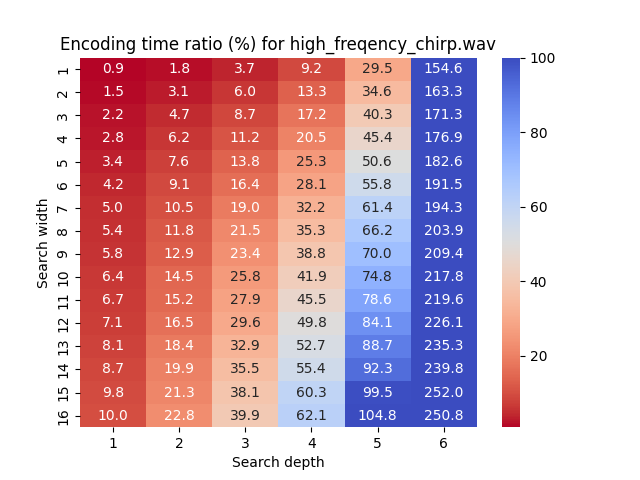
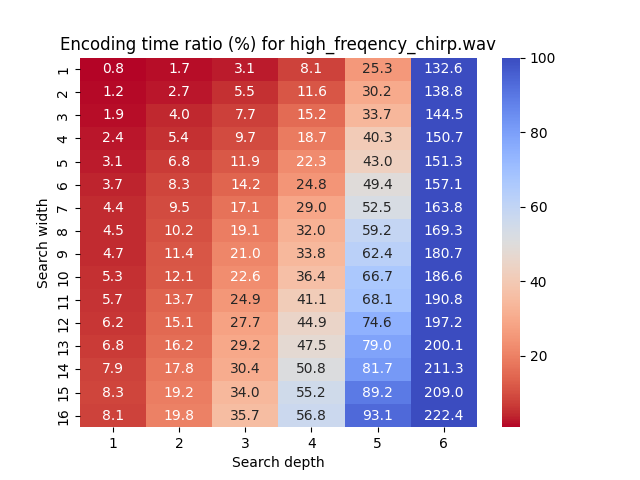
some optimizations.

diff --git a/libs/moicodec/include/moi_internal.h b/libs/moicodec/include/moi_internal.h
@@ -63,6 +63,100 @@ static const int16_t IMAADPCM_stepsize_table[89] = {
     32767
 };
 
+/* 量子化誤差計算済みテーブル */
+static const int32_t MOI_qdiff_table[89][16] = {
+    {0,2,4,6,7,9,11,13,0,-2,-4,-6,-7,-9,-11,-13},
+    {1,3,5,7,9,11,13,15,-1,-3,-5,-7,-9,-11,-13,-15},
+    {1,3,5,7,10,12,14,16,-1,-3,-5,-7,-10,-12,-14,-16},
+    {1,3,6,8,11,13,16,18,-1,-3,-6,-8,-11,-13,-16,-18},
+    {1,4,6,9,12,15,17,20,-1,-4,-6,-9,-12,-15,-17,-20},
+    {1,4,7,10,13,16,19,22,-1,-4,-7,-10,-13,-16,-19,-22},
+    {1,4,8,11,14,17,21,24,-1,-4,-8,-11,-14,-17,-21,-24},
+    {1,5,8,12,15,19,22,26,-1,-5,-8,-12,-15,-19,-22,-26},
+    {2,6,10,14,18,22,26,30,-2,-6,-10,-14,-18,-22,-26,-30},
+    {2,6,10,14,19,23,27,31,-2,-6,-10,-14,-19,-23,-27,-31},
+    {2,7,11,16,21,26,30,35,-2,-7,-11,-16,-21,-26,-30,-35},
+    {2,7,13,18,23,28,34,39,-2,-7,-13,-18,-23,-28,-34,-39},
+    {2,8,14,20,25,31,37,43,-2,-8,-14,-20,-25,-31,-37,-43},
+    {3,9,15,21,28,34,40,46,-3,-9,-15,-21,-28,-34,-40,-46},
+    {3,10,17,24,31,38,45,52,-3,-10,-17,-24,-31,-38,-45,-52},
+    {3,11,19,27,34,42,50,58,-3,-11,-19,-27,-34,-42,-50,-58},
+    {4,12,21,29,38,46,55,63,-4,-12,-21,-29,-38,-46,-55,-63},
+    {4,13,23,32,41,50,60,69,-4,-13,-23,-32,-41,-50,-60,-69},
+    {5,15,25,35,46,56,66,76,-5,-15,-25,-35,-46,-56,-66,-76},
+    {5,16,28,39,50,61,73,84,-5,-16,-28,-39,-50,-61,-73,-84},
+    {6,18,31,43,56,68,81,93,-6,-18,-31,-43,-56,-68,-81,-93},
+    {6,20,34,48,61,75,89,103,-6,-20,-34,-48,-61,-75,-89,-103},
+    {7,22,37,52,67,82,97,112,-7,-22,-37,-52,-67,-82,-97,-112},
+    {8,24,41,57,74,90,107,123,-8,-24,-41,-57,-74,-90,-107,-123},
+    {9,27,45,63,82,100,118,136,-9,-27,-45,-63,-82,-100,-118,-136},
+    {10,30,50,70,90,110,130,150,-10,-30,-50,-70,-90,-110,-130,-150},
+    {11,33,55,77,99,121,143,165,-11,-33,-55,-77,-99,-121,-143,-165},
+    {12,36,60,84,109,133,157,181,-12,-36,-60,-84,-109,-133,-157,-181},
+    {13,40,66,93,120,147,173,200,-13,-40,-66,-93,-120,-147,-173,-200},
+    {14,44,73,103,132,162,191,221,-14,-44,-73,-103,-132,-162,-191,-221},
+    {16,48,81,113,146,178,211,243,-16,-48,-81,-113,-146,-178,-211,-243},
+    {17,53,89,125,160,196,232,268,-17,-53,-89,-125,-160,-196,-232,-268},
+    {19,58,98,137,176,215,255,294,-19,-58,-98,-137,-176,-215,-255,-294},
+    {21,64,108,151,194,237,281,324,-21,-64,-108,-151,-194,-237,-281,-324},
+    {23,71,118,166,213,261,308,356,-23,-71,-118,-166,-213,-261,-308,-356},
+    {26,78,130,182,235,287,339,391,-26,-78,-130,-182,-235,-287,-339,-391},
+    {28,86,143,201,258,316,373,431,-28,-86,-143,-201,-258,-316,-373,-431},
+    {31,94,158,221,284,347,411,474,-31,-94,-158,-221,-284,-347,-411,-474},
+    {34,104,174,244,313,383,453,523,-34,-104,-174,-244,-313,-383,-453,-523},
+    {38,115,191,268,345,422,498,575,-38,-115,-191,-268,-345,-422,-498,-575},
+    {42,126,210,294,379,463,547,631,-42,-126,-210,-294,-379,-463,-547,-631},
+    {46,139,231,324,417,510,602,695,-46,-139,-231,-324,-417,-510,-602,-695},
+    {51,153,255,357,459,561,663,765,-51,-153,-255,-357,-459,-561,-663,-765},
+    {56,168,280,392,505,617,729,841,-56,-168,-280,-392,-505,-617,-729,-841},
+    {61,185,308,432,555,679,802,926,-61,-185,-308,-432,-555,-679,-802,-926},
+    {68,204,340,476,612,748,884,1020,-68,-204,-340,-476,-612,-748,-884,-1020},
+    {74,224,373,523,672,822,971,1121,-74,-224,-373,-523,-672,-822,-971,-1121},
+    {82,246,411,575,740,904,1069,1233,-82,-246,-411,-575,-740,-904,-1069,-1233},
+    {90,271,452,633,814,995,1176,1357,-90,-271,-452,-633,-814,-995,-1176,-1357},
+    {99,298,497,696,895,1094,1293,1492,-99,-298,-497,-696,-895,-1094,-1293,-1492},
+    {109,328,547,766,985,1204,1423,1642,-109,-328,-547,-766,-985,-1204,-1423,-1642},
+    {120,361,601,842,1083,1324,1564,1805,-120,-361,-601,-842,-1083,-1324,-1564,-1805},
+    {132,397,662,927,1192,1457,1722,1987,-132,-397,-662,-927,-1192,-1457,-1722,-1987},
+    {145,437,728,1020,1311,1603,1894,2186,-145,-437,-728,-1020,-1311,-1603,-1894,-2186},
+    {160,480,801,1121,1442,1762,2083,2403,-160,-480,-801,-1121,-1442,-1762,-2083,-2403},
+    {176,529,881,1234,1587,1940,2292,2645,-176,-529,-881,-1234,-1587,-1940,-2292,-2645},
+    {194,582,970,1358,1746,2134,2522,2910,-194,-582,-970,-1358,-1746,-2134,-2522,-2910},
+    {213,640,1066,1493,1920,2347,2773,3200,-213,-640,-1066,-1493,-1920,-2347,-2773,-3200},
+    {234,704,1173,1643,2112,2582,3051,3521,-234,-704,-1173,-1643,-2112,-2582,-3051,-3521},
+    {258,774,1291,1807,2324,2840,3357,3873,-258,-774,-1291,-1807,-2324,-2840,-3357,-3873},
+    {284,852,1420,1988,2556,3124,3692,4260,-284,-852,-1420,-1988,-2556,-3124,-3692,-4260},
+    {312,937,1561,2186,2811,3436,4060,4685,-312,-937,-1561,-2186,-2811,-3436,-4060,-4685},
+    {343,1030,1718,2405,3092,3779,4467,5154,-343,-1030,-1718,-2405,-3092,-3779,-4467,-5154},
+    {378,1134,1890,2646,3402,4158,4914,5670,-378,-1134,-1890,-2646,-3402,-4158,-4914,-5670},
+    {415,1247,2079,2911,3742,4574,5406,6238,-415,-1247,-2079,-2911,-3742,-4574,-5406,-6238},
+    {457,1372,2287,3202,4117,5032,5947,6862,-457,-1372,-2287,-3202,-4117,-5032,-5947,-6862},
+    {503,1509,2516,3522,4529,5535,6542,7548,-503,-1509,-2516,-3522,-4529,-5535,-6542,-7548},
+    {553,1660,2767,3874,4981,6088,7195,8302,-553,-1660,-2767,-3874,-4981,-6088,-7195,-8302},
+    {608,1826,3044,4262,5479,6697,7915,9133,-608,-1826,-3044,-4262,-5479,-6697,-7915,-9133},
+    {669,2009,3348,4688,6027,7367,8706,10046,-669,-2009,-3348,-4688,-6027,-7367,-8706,-10046},
+    {736,2210,3683,5157,6630,8104,9577,11051,-736,-2210,-3683,-5157,-6630,-8104,-9577,-11051},
+    {810,2431,4052,5673,7294,8915,10536,12157,-810,-2431,-4052,-5673,-7294,-8915,-10536,-12157},
+    {891,2674,4457,6240,8023,9806,11589,13372,-891,-2674,-4457,-6240,-8023,-9806,-11589,-13372},
+    {980,2941,4903,6864,8825,10786,12748,14709,-980,-2941,-4903,-6864,-8825,-10786,-12748,-14709},
+    {1078,3236,5393,7551,9708,11866,14023,16181,-1078,-3236,-5393,-7551,-9708,-11866,-14023,-16181},
+    {1186,3559,5933,8306,10679,13052,15426,17799,-1186,-3559,-5933,-8306,-10679,-13052,-15426,-17799},
+    {1305,3915,6526,9136,11747,14357,16968,19578,-1305,-3915,-6526,-9136,-11747,-14357,-16968,-19578},
+    {1435,4307,7179,10051,12922,15794,18666,21538,-1435,-4307,-7179,-10051,-12922,-15794,-18666,-21538},
+    {1579,4738,7896,11055,14214,17373,20531,23690,-1579,-4738,-7896,-11055,-14214,-17373,-20531,-23690},
+    {1737,5212,8686,12161,15636,19111,22585,26060,-1737,-5212,-8686,-12161,-15636,-19111,-22585,-26060},
+    {1911,5733,9555,13377,17200,21022,24844,28666,-1911,-5733,-9555,-13377,-17200,-21022,-24844,-28666},
+    {2102,6306,10511,14715,18920,23124,27329,31533,-2102,-6306,-10511,-14715,-18920,-23124,-27329,-31533},
+    {2312,6937,11562,16187,20812,25437,30062,34687,-2312,-6937,-11562,-16187,-20812,-25437,-30062,-34687},
+    {2543,7631,12718,17806,22893,27981,33068,38156,-2543,-7631,-12718,-17806,-22893,-27981,-33068,-38156},
+    {2798,8394,13990,19586,25183,30779,36375,41971,-2798,-8394,-13990,-19586,-25183,-30779,-36375,-41971},
+    {3077,9233,15389,21545,27700,33856,40012,46168,-3077,-9233,-15389,-21545,-27700,-33856,-40012,-46168},
+    {3385,10157,16928,23700,30471,37243,44014,50786,-3385,-10157,-16928,-23700,-30471,-37243,-44014,-50786},
+    {3724,11172,18621,26069,33518,40966,48415,55863,-3724,-11172,-18621,-26069,-33518,-40966,-48415,-55863},
+    {4095,12287,20479,28671,36862,45054,53246,61438,-4095,-12287,-20479,-28671,-36862,-45054,-53246,-61438},
+};
+
+
 #ifdef __cplusplus
 extern "C" {
 #endif /* __cplusplus */

diff --git a/libs/moicodec/src/moi_encoder.c b/libs/moicodec/src/moi_encoder.c
@@ -17,6 +17,9 @@
 /* 符号語の個数 */
 #define MOIENCODER_NUM_CODES (1 << MOI_BITS_PER_SAMPLE)
 
+/* 量子化誤差の計算 */
+#define MOICoreEncoder_CalculateQuantizedDiff(encoder, nibble) MOI_qdiff_table[(encoder)->stepsize_index][(nibble)]
+
 /* コア処理エンコーダ */
 struct MOICoreEncoder {
     int16_t prev_sample; /* サンプル値 */
@@ -249,42 +252,20 @@ void MOIEncoder_Destroy(struct MOIEncoder *encoder)
     }
 }
 
-/* 量子化した差分を符号語から計算 */
-static int32_t MOICoreEncoder_CalculateQuantizedDiff(
-        const struct MOICoreEncoder *encoder, const uint8_t nibble)
-{
-    int32_t qdiff, stepsize;
-    const int32_t delta = nibble & 7;
-    const int32_t sign = nibble & 8;
-
-    MOI_ASSERT(encoder != NULL);
-    MOI_ASSERT(nibble < MOIENCODER_NUM_CODES);
-
-    /* ステップサイズの取得 */
-    stepsize = IMAADPCM_stepsize_table[encoder->stepsize_index];
-
-    /* 量子化した差分を計算 */
-    qdiff = (stepsize * ((delta << 1) + 1)) >> 3;
-
-    /* 符号を適用 */
-    return sign ? -qdiff : qdiff;
-}
-
 /* 符号語のコストを計算 */
 static double MOICoreEncoder_CalculateCost(
-        const struct MOICoreEncoder *encoder, const int16_t sample, const uint8_t nibble)
+        const struct MOICoreEncoder *encoder, const int32_t sample, const uint8_t nibble)
 {
     double err;
-    int32_t qdiff;
 
     MOI_ASSERT(encoder != NULL);
     MOI_ASSERT(nibble < MOIENCODER_NUM_CODES);
 
     /* 量子化した差分を計算 */
-    qdiff = MOICoreEncoder_CalculateQuantizedDiff(encoder, nibble);
+    err = MOICoreEncoder_CalculateQuantizedDiff(encoder, nibble);
 
     /* 量子化した差分により次の値を予測し、真のサンプルとの差をとる */
-    err = encoder->prev_sample + qdiff - sample;
+    err += encoder->prev_sample - sample;
 
     /* 差の2乗をコストとする */
     return err * err;
@@ -326,12 +307,32 @@ static uint8_t MOICoreEncoder_CalculateIMAADPCMNibble(
     sign = diff < 0;
     diffabs = sign ? -diff : diff;
 
+#if 0
     /* 差分を符号表現に変換 */
     /* nibble = sign(diff) * round(|diff| * 4 / stepsize) */
     nibble = (uint8_t)MOI_MIN_VAL((diffabs << 2) / IMAADPCM_stepsize_table[encoder->stepsize_index], 7);
 
     /* 符号ビットを付加 */
     return sign ? (nibble | 0x8) : nibble;
+#else
+    /* IMA-ADPCMリファレンス実装 */
+    nibble = sign ? 8 : 0;
+    {
+        uint32_t i;
+        uint8_t mask = 4;
+        uint16_t stepsize = IMAADPCM_stepsize_table[encoder->stepsize_index];
+
+        for (i = 0; i < 3; i++) {
+            if (diffabs >= stepsize) {
+                nibble |= mask;
+                diffabs -= stepsize;
+            }
+            stepsize >>= 1;
+            mask >>= 1;
+        }
+    }
+    return nibble;
+#endif
 }
 
 /* 深さdepthでの最小スコア探索 */
@@ -417,7 +418,8 @@ static double MOICoreEncoder_SelectTopK(double *data, uint32_t n, uint32_t k)
 static MOIError MOIEncoder_EncodeSamples(
         struct MOIEncoder *encoder, const int16_t *input, uint32_t num_samples, uint32_t *best_index)
 {
-#define SCORE_SIZE MOI_MAX_VAL(MOI_MAX_SEARCH_BEAM_WIDTH * MOIENCODER_NUM_CODES, MOI_IMAADPCM_STEPSIZE_TABLE_SIZE)
+#define HALF_NUM_CODES (MOIENCODER_NUM_CODES / 2)
+#define SCORE_SIZE MOI_MAX_VAL(MOI_MAX_SEARCH_BEAM_WIDTH * HALF_NUM_CODES, MOI_IMAADPCM_STEPSIZE_TABLE_SIZE)
     uint32_t i, smpl, beam_width, depth;
     double threshold;
     double score[SCORE_SIZE];
@@ -480,23 +482,21 @@ static MOIError MOIEncoder_EncodeSamples(
         /* コスト計算 */
         for (i = 0; i < beam_width; i++) {
             const struct MOICoreEncoder *core = &(candidate[i].encoder);
-            uint8_t abs;
-            const int32_t sign = (input[smpl] - core->prev_sample) < 0;
             const uint32_t init_depth = MOI_MIN_VAL(depth, num_samples - smpl);
-            for (abs = 0; abs <= 7; abs++) {
+            const uint8_t sign = ((input[smpl] - core->prev_sample) < 0) ? 8 : 0;
+            uint8_t abs;
+            for (abs = 0; abs < HALF_NUM_CODES; abs++) {
                 /* 同一符号の中でコスト計算 */
-                nibble = sign ? (abs | 0x8) : abs;
-                score[(i * MOIENCODER_NUM_CODES) + nibble]
-                    = MOICoreEncoder_EvaluateScore(core, &input[smpl], init_depth, nibble);
-                /* 異なる符号は計算しない（大きなコストを与える） */
-                nibble ^= 0x8;
-                score[(i * MOIENCODER_NUM_CODES) + nibble] = FLT_MAX;
+                score[i * HALF_NUM_CODES + abs]
+                    = MOICoreEncoder_EvaluateScore(core, &input[smpl], init_depth, abs | sign);
             }
         }
 
+        /* TODO: IMA-ADPCM系列のエンコーダを残しておいてそちらがよければそっちを使う */
+
         /* 上位選択の閾値 */
-        memcpy(score_work, score, sizeof(double) * beam_width * MOIENCODER_NUM_CODES);
-        threshold = MOICoreEncoder_SelectTopK(score_work, beam_width * MOIENCODER_NUM_CODES, beam_width);
+        memcpy(score_work, score, sizeof(double) * beam_width * HALF_NUM_CODES);
+        threshold = MOICoreEncoder_SelectTopK(score_work, beam_width * HALF_NUM_CODES, beam_width);
         /* 最大値が小さい場合の対策 */
         if (threshold < FLT_MIN) {
             threshold = FLT_MIN;
@@ -512,10 +512,12 @@ static MOIError MOIEncoder_EncodeSamples(
         /* 閾値未満のコストを持つエンコーダを次の候補に選択 */
         {
             uint32_t n = 0;
+            uint8_t abs;
             for (i = 0; i < beam_width; i++) {
-                for (nibble = 0; nibble <= 0xF; nibble++) {
-                    if (score[(i * MOIENCODER_NUM_CODES) + nibble] <= threshold) {
+                for (abs = 0; abs < HALF_NUM_CODES; abs++) {
+                    if (score[i * HALF_NUM_CODES + abs] <= threshold) {
                         struct MOICoreEncoder entry = backup[i].encoder;
+                        nibble = ((input[smpl] - entry.prev_sample) < 0) ? (abs | 0x8) : abs;
                         MOICoreEncoder_Update(&entry, input[smpl], nibble);
                         candidate[n].encoder = entry;
                         candidate[n].init_stepsize_index = backup[i].init_stepsize_index;
